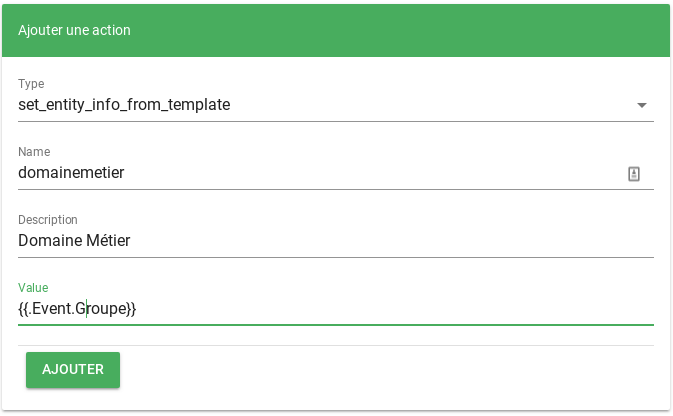
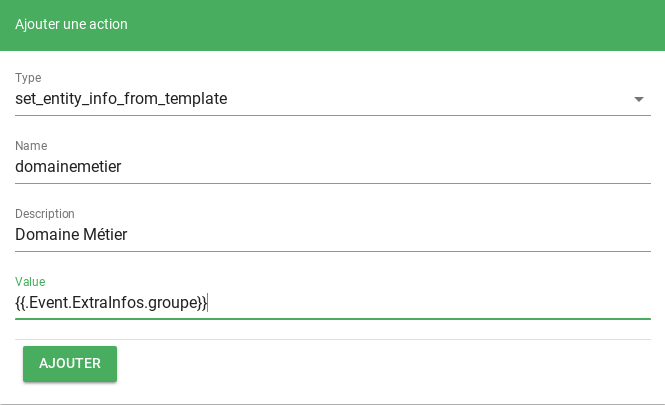
enrichissement par regle

diff --git a/sources/docs/fr/guide-utilisation/cas-d-usage/enrichissement.md b/sources/docs/fr/guide-utilisation/cas-d-usage/enrichissement.md
@@ -94,6 +94,9 @@ Considérons l'événement suivant :
 }
 ````
 
+Chose importante, les attributs pris en charge sont inscrits [ici](../../../guide-administration/event-filter/#champs-des-evenements).  
+Dans notre cas, l'attribut **groupe** est personalisé et sera donc positionné *automatiquement* dans un dictionnaire *extrainfos*.  
+
 On commence à ajouter une règle via le menu adéquat
 
 ![Menu Event-filter ](./img/event_filter_menu.png "Menu Event-filter")  
@@ -112,6 +115,13 @@ Dernière étape, nous allons récupérer le contenu de l'attribut **groupe** et
     Pour manipuler l'entité comme nous venons de le faire, une opération préalable est nécessaire.  
     Une règle de [copie d'entité](../../../guide-administration/event-filter/#ajout-dinformations-a-lentite) doit être présente
 
+Le résultat pourra être observé sur un bac à alarmes par exemple :  
+
+
+![Nom des colonnes ](./img/event_filter_nom_colonnes.png "Nom des colonnes")
+![Bac à alarmes ](./img/event_filter_baa.png "Bac à alarmes")
+
+
 ## Enrichissement via référentiels externes
 
 ## Annexes
@@ -120,7 +130,12 @@ Dernière étape, nous allons récupérer le contenu de l'attribut **groupe** et
 
 De manière générale, vous pouvez consulter le contenu de la base de données qui porte les entités, le `contexte`.  
 Pour cela, vous devez instancier un widget **Explorateur de contexte** et effectuer une recherche sur l'entité voulue.  
+
 Voici un exemple avec **ressource-doc1**.  
 
 ![Contexte ](./img/consulter_contexte.png "Consulter le contexte ")
+
+Puis avec **ressource-doc2**.  
+
+![Contexte ](./img/consulter_contexte2.png "Consulter le contexte ")
 
